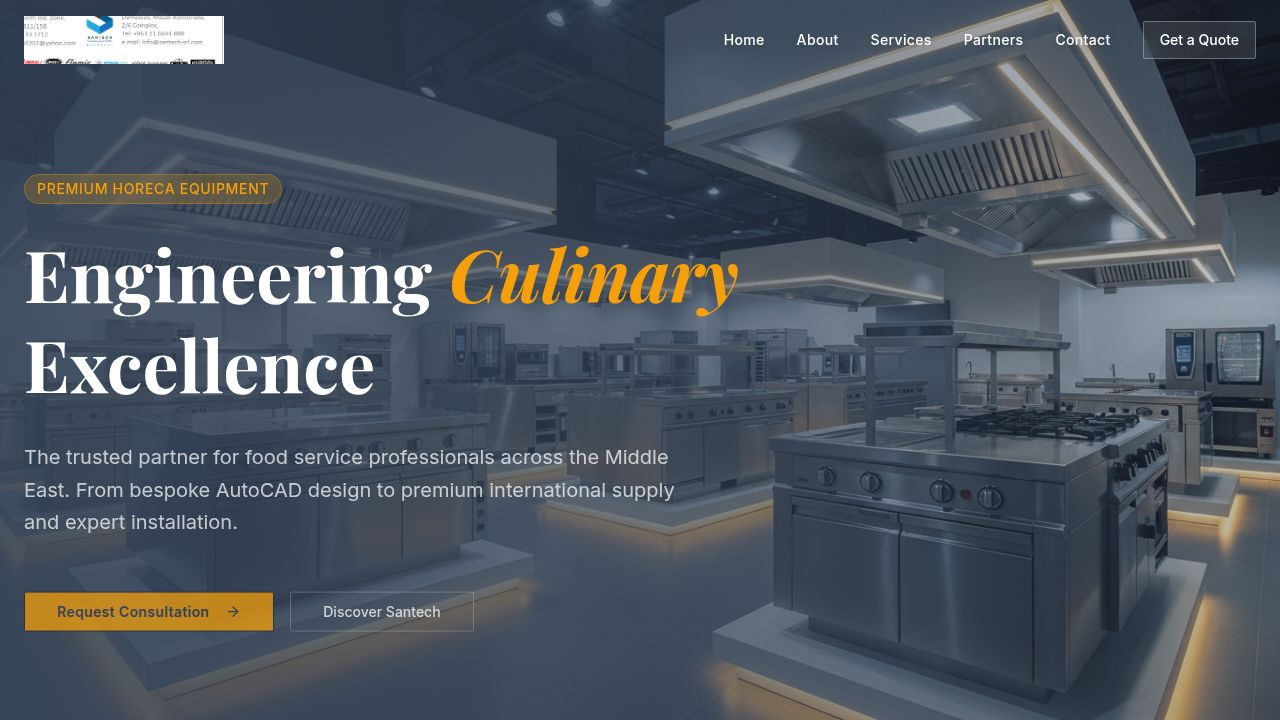
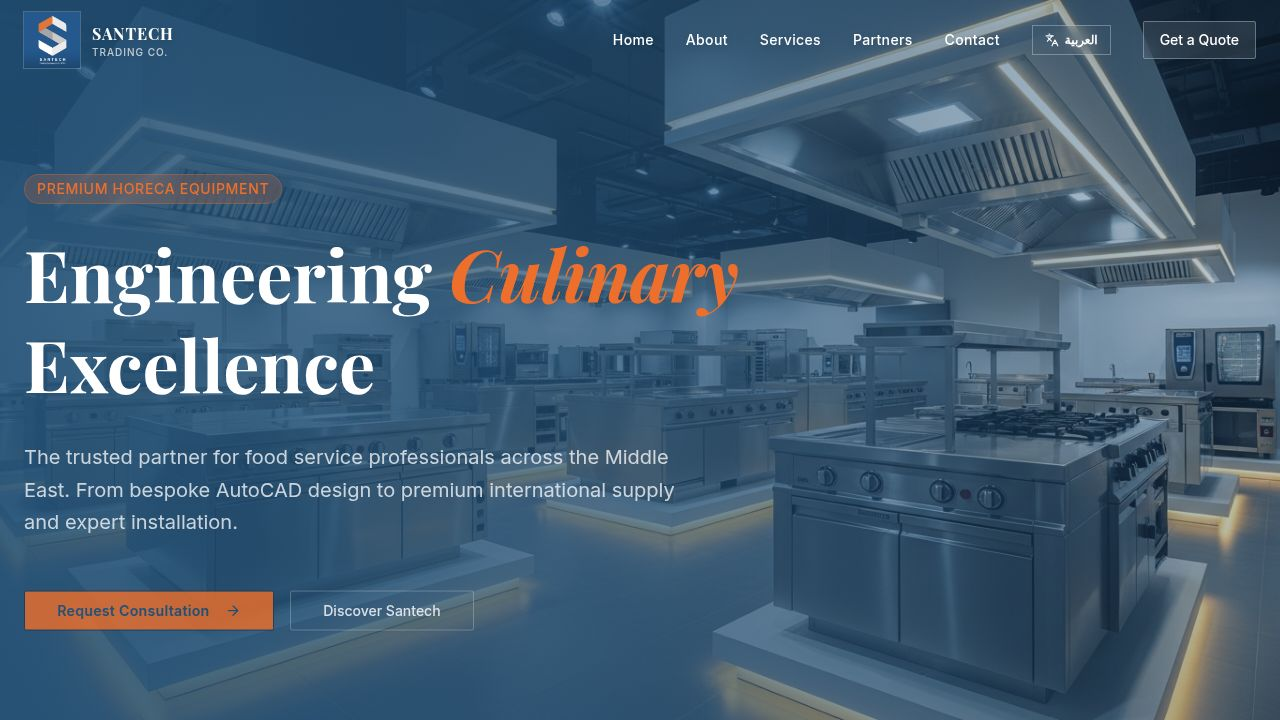
Add a dedicated section highlighting the company's Syrian roots and nationwide presence
Introduces a new `RootedInSyria` component with localized content for English and Arabic, detailing the company's Damascus headquarters and its coverage across all Syrian governorates.

Replit-Commit-Author: Agent
Replit-Commit-Session-Id: 68019111-c642-4d25-ab92-a4f9bdc2c8e5
Replit-Commit-Checkpoint-Type: full_checkpoint
Replit-Commit-Event-Id: 2e4bfa92-a2b7-4a80-8d03-de1a6bca275a
Replit-Commit-Screenshot-Url: https://storage.googleapis.com/screenshot-production-us-central1/97834e86-13d1-4e5d-974a-a28b3ebcc5f6/68019111-c642-4d25-ab92-a4f9bdc2c8e5/QfJMmlV
Replit-Helium-Checkpoint-Created: true

diff --git a/artifacts/santech-website/src/components/sections/RootedInSyria.tsx b/artifacts/santech-website/src/components/sections/RootedInSyria.tsx
@@ -1,0 +1,202 @@
+import { motion, useInView } from "framer-motion";
+import { useRef } from "react";
+import { MapPin, Building2, Landmark } from "lucide-react";
+import { useI18n } from "@/lib/i18n";
+
+export default function RootedInSyria() {
+  const ref = useRef(null);
+  const isInView = useInView(ref, { once: true, margin: "-80px" });
+  const { t } = useI18n();
+
+  const cities = [
+    "syria.cities.aleppo",
+    "syria.cities.homs",
+    "syria.cities.latakia",
+    "syria.cities.tartus",
+    "syria.cities.hama",
+    "syria.cities.daraa",
+    "syria.cities.deirezzor",
+    "syria.cities.suwayda",
+    "syria.cities.raqqa",
+    "syria.cities.idlib",
+    "syria.cities.hasakah",
+    "syria.cities.qamishli",
+    "syria.cities.quneitra",
+  ];
+
+  return (
+    <section
+      id="syria"
+      ref={ref}
+      className="relative py-28 overflow-hidden bg-gradient-to-b from-secondary/30 via-background to-background"
+      data-testid="section-syria"
+    >
+      {/* Decorative arabesque/geometric background */}
+      <div
+        className="absolute inset-0 opacity-[0.04] pointer-events-none"
+        style={{
+          backgroundImage:
+            "radial-gradient(circle at 1px 1px, hsl(var(--primary)) 1px, transparent 0)",
+          backgroundSize: "32px 32px",
+        }}
+      />
+      {/* Soft accent glow */}
+      <div className="absolute top-1/3 -start-20 w-96 h-96 rounded-full bg-accent/5 blur-3xl pointer-events-none" />
+      <div className="absolute bottom-0 -end-20 w-[500px] h-[500px] rounded-full bg-primary/5 blur-3xl pointer-events-none" />
+
+      <div className="container relative z-10 mx-auto px-4 md:px-6">
+        {/* Header */}
+        <div className="max-w-3xl mb-16">
+          <motion.span
+            initial={{ opacity: 0, y: 20 }}
+            animate={isInView ? { opacity: 1, y: 0 } : { opacity: 0, y: 20 }}
+            transition={{ duration: 0.5 }}
+            className="inline-flex items-center gap-2 text-xs font-semibold tracking-[0.2em] uppercase text-accent mb-4 border-b border-accent pb-1"
+          >
+            <span className="inline-block w-2 h-2 rounded-full bg-accent" />
+            {t("syria.eyebrow")}
+          </motion.span>
+          <motion.h2
+            initial={{ opacity: 0, y: 20 }}
+            animate={isInView ? { opacity: 1, y: 0 } : { opacity: 0, y: 20 }}
+            transition={{ duration: 0.6, delay: 0.1 }}
+            className="text-4xl md:text-5xl lg:text-6xl font-serif font-bold text-foreground leading-[1.05] mb-6"
+          >
+            {t("syria.title.1")}{" "}
+            <span className="text-primary italic">{t("syria.title.2")}</span>
+            <br />
+            {t("syria.title.3")}
+          </motion.h2>
+          <motion.p
+            initial={{ opacity: 0, y: 20 }}
+            animate={isInView ? { opacity: 1, y: 0 } : { opacity: 0, y: 20 }}
+            transition={{ duration: 0.6, delay: 0.2 }}
+            className="text-muted-foreground text-base md:text-lg leading-relaxed"
+          >
+            {t("syria.intro")}
+          </motion.p>
+        </div>
+
+        {/* Two feature cards: HQ + Heritage */}
+        <div className="grid grid-cols-1 md:grid-cols-2 gap-6 mb-16">
+          {/* Damascus HQ — featured card */}
+          <motion.div
+            initial={{ opacity: 0, y: 30 }}
+            animate={isInView ? { opacity: 1, y: 0 } : { opacity: 0, y: 30 }}
+            transition={{ duration: 0.6, delay: 0.3 }}
+            className="relative bg-primary text-primary-foreground p-10 overflow-hidden group"
+            data-testid="card-syria-hq"
+          >
+            <span className="absolute top-0 start-0 h-[3px] w-full bg-accent" />
+            {/* Watermark */}
+            <Building2
+              className="absolute -bottom-8 -end-8 w-48 h-48 text-white/[0.05]"
+              strokeWidth={1}
+            />
+            <div className="relative">
+              <div className="flex items-center gap-2 text-xs font-semibold tracking-[0.18em] uppercase text-accent mb-4">
+                <MapPin className="w-4 h-4" />
+                {t("syria.hq.label")}
+              </div>
+              <h3 className="text-4xl md:text-5xl font-serif font-bold mb-3">
+                {t("syria.hq.city")}
+              </h3>
+              <p className="text-primary-foreground/80 text-base leading-relaxed mb-6 max-w-sm">
+                {t("syria.hq.address")}
+              </p>
+              <div className="flex items-center gap-3 pt-6 border-t border-white/10">
+                <div className="text-3xl font-serif font-bold text-accent leading-none">
+                  33.5°<span className="text-xl">N</span>
+                </div>
+                <div className="w-px h-8 bg-white/20" />
+                <div className="text-3xl font-serif font-bold text-accent leading-none">
+                  36.3°<span className="text-xl">E</span>
+                </div>
+              </div>
+            </div>
+          </motion.div>
+
+          {/* Heritage card */}
+          <motion.div
+            initial={{ opacity: 0, y: 30 }}
+            animate={isInView ? { opacity: 1, y: 0 } : { opacity: 0, y: 30 }}
+            transition={{ duration: 0.6, delay: 0.4 }}
+            className="relative bg-background border border-border p-10 overflow-hidden group hover:border-accent/40 transition-colors"
+            data-testid="card-syria-heritage"
+          >
+            <span className="absolute top-0 start-0 h-[3px] w-12 bg-accent transition-all duration-500 group-hover:w-full" />
+            <Landmark
+              className="absolute -bottom-8 -end-8 w-48 h-48 text-accent/[0.06]"
+              strokeWidth={1}
+            />
+            <div className="relative">
+              <div className="flex items-center gap-2 text-xs font-semibold tracking-[0.18em] uppercase text-accent mb-4">
+                <Landmark className="w-4 h-4" />
+                {t("syria.heritage.label")}
+              </div>
+              <h3 className="text-3xl md:text-4xl font-serif font-bold text-foreground mb-4 leading-tight">
+                {t("syria.heritage.title")}
+              </h3>
+              <p className="text-muted-foreground text-base leading-relaxed">
+                {t("syria.heritage.desc")}
+              </p>
+            </div>
+          </motion.div>
+        </div>
+
+        {/* Coverage / Cities */}
+        <motion.div
+          initial={{ opacity: 0, y: 30 }}
+          animate={isInView ? { opacity: 1, y: 0 } : { opacity: 0, y: 30 }}
+          transition={{ duration: 0.6, delay: 0.5 }}
+          className="bg-background border border-border p-8 md:p-10 relative overflow-hidden"
+          data-testid="card-syria-coverage"
+        >
+          <div className="grid grid-cols-1 md:grid-cols-12 gap-8 items-start">
+            <div className="md:col-span-4">
+              <div className="flex items-center gap-2 text-xs font-semibold tracking-[0.18em] uppercase text-accent mb-3">
+                <MapPin className="w-4 h-4" />
+                14
+              </div>
+              <h3 className="text-2xl md:text-3xl font-serif font-bold text-foreground mb-3 leading-tight">
+                {t("syria.coverage.title")}
+              </h3>
+              <p className="text-muted-foreground text-sm md:text-base leading-relaxed">
+                {t("syria.coverage.desc")}
+              </p>
+            </div>
+
+            <div className="md:col-span-8">
+              <div className="flex flex-wrap gap-2">
+                {/* Damascus chip — featured first */}
+                <motion.span
+                  initial={{ opacity: 0, scale: 0.9 }}
+                  animate={isInView ? { opacity: 1, scale: 1 } : { opacity: 0, scale: 0.9 }}
+                  transition={{ duration: 0.4, delay: 0.6 }}
+                  className="inline-flex items-center gap-1.5 px-3.5 py-2 bg-primary text-primary-foreground text-sm font-medium rounded-sm"
+                  data-testid="chip-city-damascus"
+                >
+                  <MapPin className="w-3.5 h-3.5 text-accent" />
+                  {t("syria.hq.city")}
+                </motion.span>
+                {cities.map((cityKey, i) => (
+                  <motion.span
+                    key={cityKey}
+                    initial={{ opacity: 0, scale: 0.9 }}
+                    animate={isInView ? { opacity: 1, scale: 1 } : { opacity: 0, scale: 0.9 }}
+                    transition={{ duration: 0.35, delay: 0.65 + i * 0.04 }}
+                    className="inline-flex items-center gap-1.5 px-3.5 py-2 bg-secondary/50 hover:bg-accent/10 text-foreground text-sm font-medium rounded-sm border border-border hover:border-accent/40 transition-colors cursor-default"
+                    data-testid={`chip-city-${i}`}
+                  >
+                    <MapPin className="w-3.5 h-3.5 text-muted-foreground" />
+                    {t(cityKey)}
+                  </motion.span>
+                ))}
+              </div>
+            </div>
+          </div>
+        </motion.div>
+      </div>
+    </section>
+  );
+}

diff --git a/artifacts/santech-website/src/lib/i18n.tsx b/artifacts/santech-website/src/lib/i18n.tsx
@@ -47,6 +47,34 @@ const en: Dict = {
   "why.5.title": "Long-Term Partnership",
   "why.5.desc": "We don't disappear after delivery. Spare parts, scheduled maintenance, staff training, and 24/7 support keep your operation running flawlessly for years.",
 
+  // Syria / Roots
+  "syria.eyebrow": "Proudly Syrian",
+  "syria.title.1": "Rooted in",
+  "syria.title.2": "Damascus,",
+  "syria.title.3": "Built for All of Syria",
+  "syria.intro": "From the heart of the world's oldest continuously inhabited capital, we serve the entire Syrian Republic. Damascus is more than our address — it is our heritage and our promise. We believe in Syria's hospitality renaissance, and we equip the kitchens powering it.",
+  "syria.hq.label": "Headquarters",
+  "syria.hq.city": "Damascus",
+  "syria.hq.address": "Mazzeh Autostrada, Damascus, Syria",
+  "syria.coverage.title": "Nationwide Coverage",
+  "syria.coverage.desc": "Delivery, installation, and after-sales support across all 14 Syrian governorates.",
+  "syria.cities.aleppo": "Aleppo",
+  "syria.cities.homs": "Homs",
+  "syria.cities.latakia": "Latakia",
+  "syria.cities.tartus": "Tartus",
+  "syria.cities.hama": "Hama",
+  "syria.cities.daraa": "Daraa",
+  "syria.cities.deirezzor": "Deir ez-Zor",
+  "syria.cities.suwayda": "As-Suwayda",
+  "syria.cities.raqqa": "Ar-Raqqa",
+  "syria.cities.idlib": "Idlib",
+  "syria.cities.hasakah": "Al-Hasakah",
+  "syria.cities.qamishli": "Qamishli",
+  "syria.cities.quneitra": "Quneitra",
+  "syria.heritage.label": "Heritage",
+  "syria.heritage.title": "8,000 Years of Hospitality",
+  "syria.heritage.desc": "Damascus has welcomed travelers and traders since the dawn of civilization. We carry that legacy forward in every modern kitchen we deliver.",
+
   // About
   "about.eyebrow": "Who We Are",
   "about.title.1": "Three Decades of",
@@ -178,6 +206,34 @@ const ar: Dict = {
   "why.4.desc": "كل مشروع يبدأ برسومات هندسية دقيقة — لا مكان للتخمين. استوديو التصميم لدينا يحسّن كل سنتيمتر لتحقيق أفضل أداء وكفاءة.",
   "why.5.title": "شراكة طويلة الأمد",
   "why.5.desc": "لا نختفي بعد التسليم. قطع الغيار، الصيانة الدورية، تدريب الكوادر، ودعم على مدار الساعة لضمان استمرار عملك بكفاءة لسنوات.",
+
+  // Syria / Roots
+  "syria.eyebrow": "بفخر سوري",
+  "syria.title.1": "متجذرون في",
+  "syria.title.2": "دمشق،",
+  "syria.title.3": "نخدم سوريا بأكملها",
+  "syria.intro": "من قلب أقدم عاصمة مأهولة في العالم، نخدم الجمهورية العربية السورية بكاملها. دمشق ليست مجرد عنوان لنا — بل هي إرثنا ووعدنا. نؤمن بنهضة الضيافة في سوريا، ونجهّز المطابخ التي تقودها.",
+  "syria.hq.label": "المقر الرئيسي",
+  "syria.hq.city": "دمشق",
+  "syria.hq.address": "أوتوستراد المزة، دمشق، سوريا",
+  "syria.coverage.title": "تغطية وطنية شاملة",
+  "syria.coverage.desc": "توصيل وتركيب وخدمات ما بعد البيع في جميع المحافظات السورية الأربعة عشر.",
+  "syria.cities.aleppo": "حلب",
+  "syria.cities.homs": "حمص",
+  "syria.cities.latakia": "اللاذقية",
+  "syria.cities.tartus": "طرطوس",
+  "syria.cities.hama": "حماة",
+  "syria.cities.daraa": "درعا",
+  "syria.cities.deirezzor": "دير الزور",
+  "syria.cities.suwayda": "السويداء",
+  "syria.cities.raqqa": "الرقة",
+  "syria.cities.idlib": "إدلب",
+  "syria.cities.hasakah": "الحسكة",
+  "syria.cities.qamishli": "القامشلي",
+  "syria.cities.quneitra": "القنيطرة",
+  "syria.heritage.label": "الإرث",
+  "syria.heritage.title": "ثمانية آلاف عام من الضيافة",
+  "syria.heritage.desc": "دمشق ترحّب بالمسافرين والتجار منذ فجر الحضارة. نحمل هذا الإرث في كل مطبخ حديث نقدّمه.",
 
   // About
   "about.eyebrow": "من نحن",

diff --git a/artifacts/santech-website/src/pages/home.tsx b/artifacts/santech-website/src/pages/home.tsx
@@ -4,6 +4,7 @@ import TrustBar from "@/components/sections/TrustBar";
 import About from "@/components/sections/About";
 import WhyUs from "@/components/sections/WhyUs";
 import Services from "@/components/sections/Services";
+import RootedInSyria from "@/components/sections/RootedInSyria";
 import Partners from "@/components/sections/Partners";
 import Contact from "@/components/sections/Contact";
 
@@ -15,6 +16,7 @@ export default function Home() {
       <About />
       <WhyUs />
       <Services />
+      <RootedInSyria />
       <Partners />
       <Contact />
     </div>